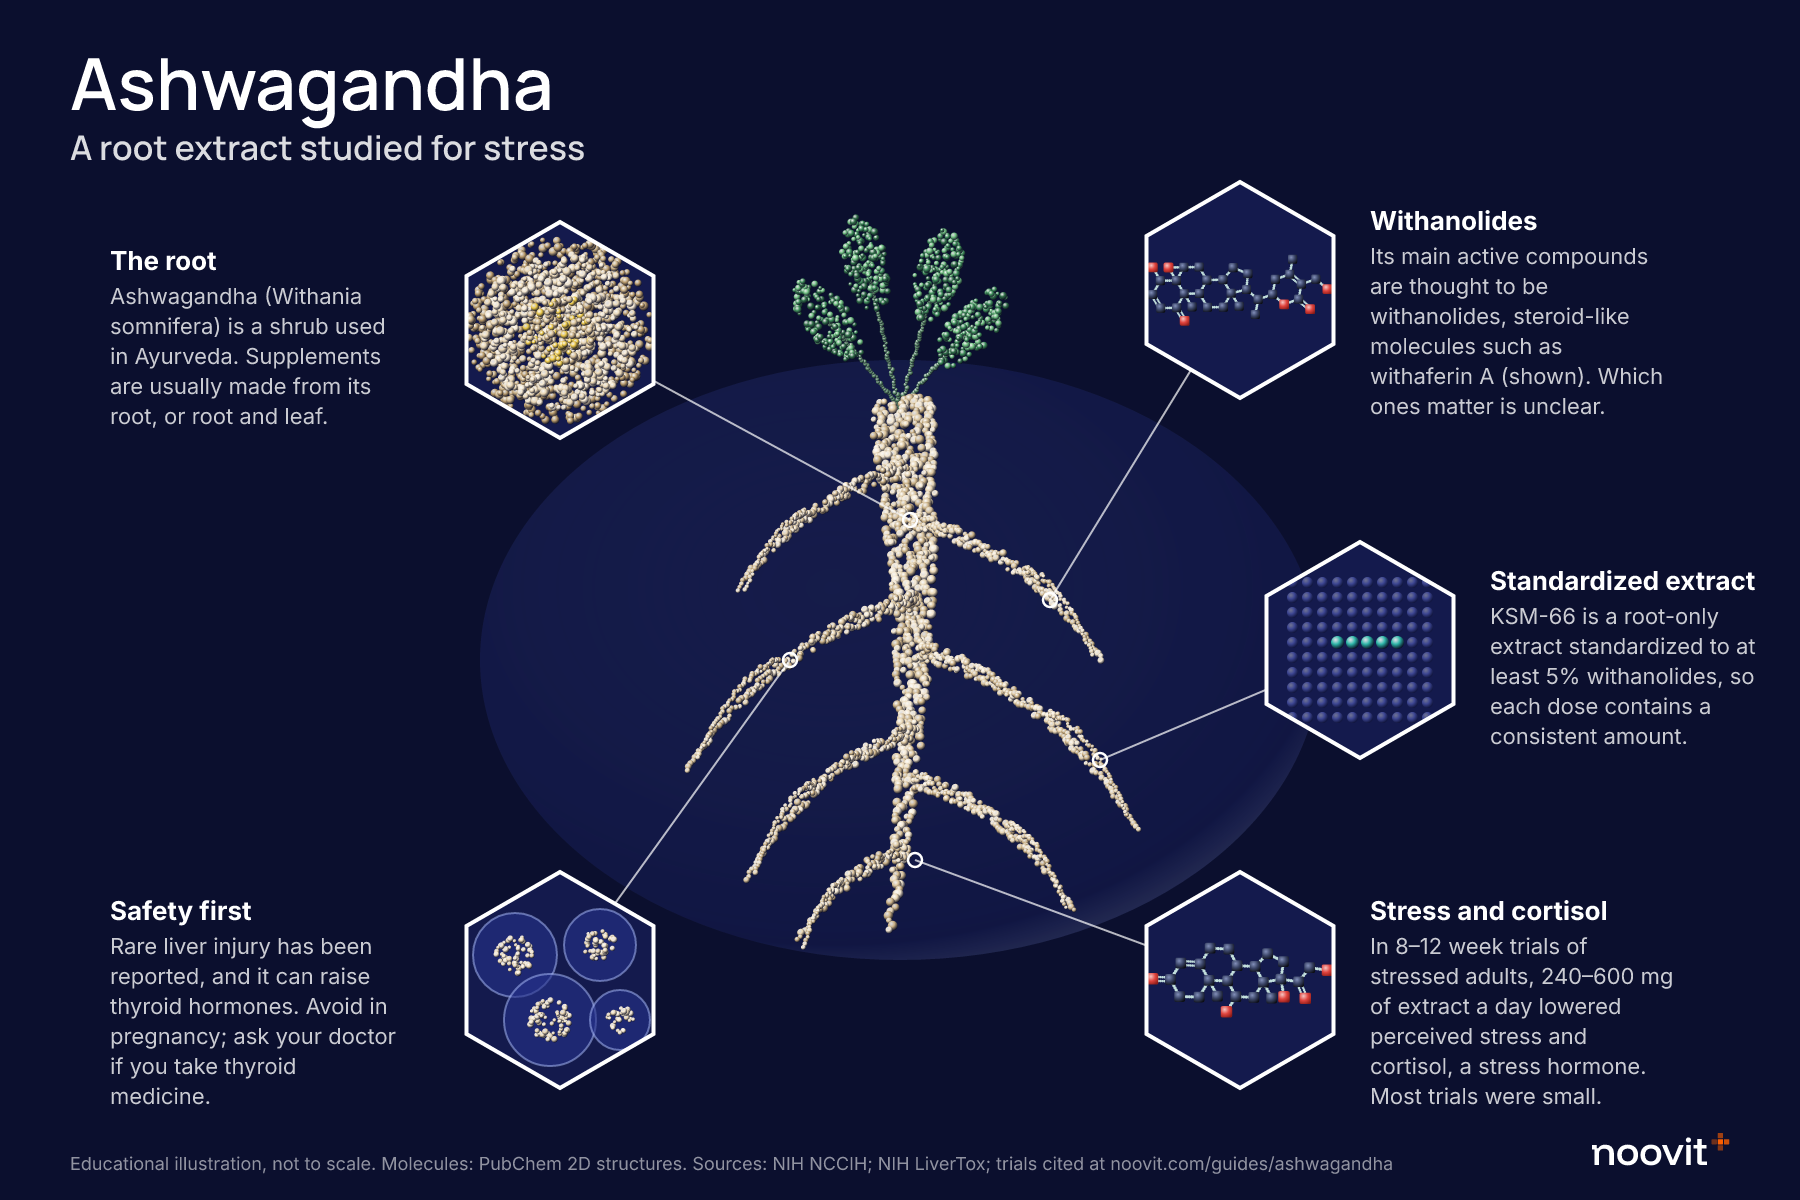
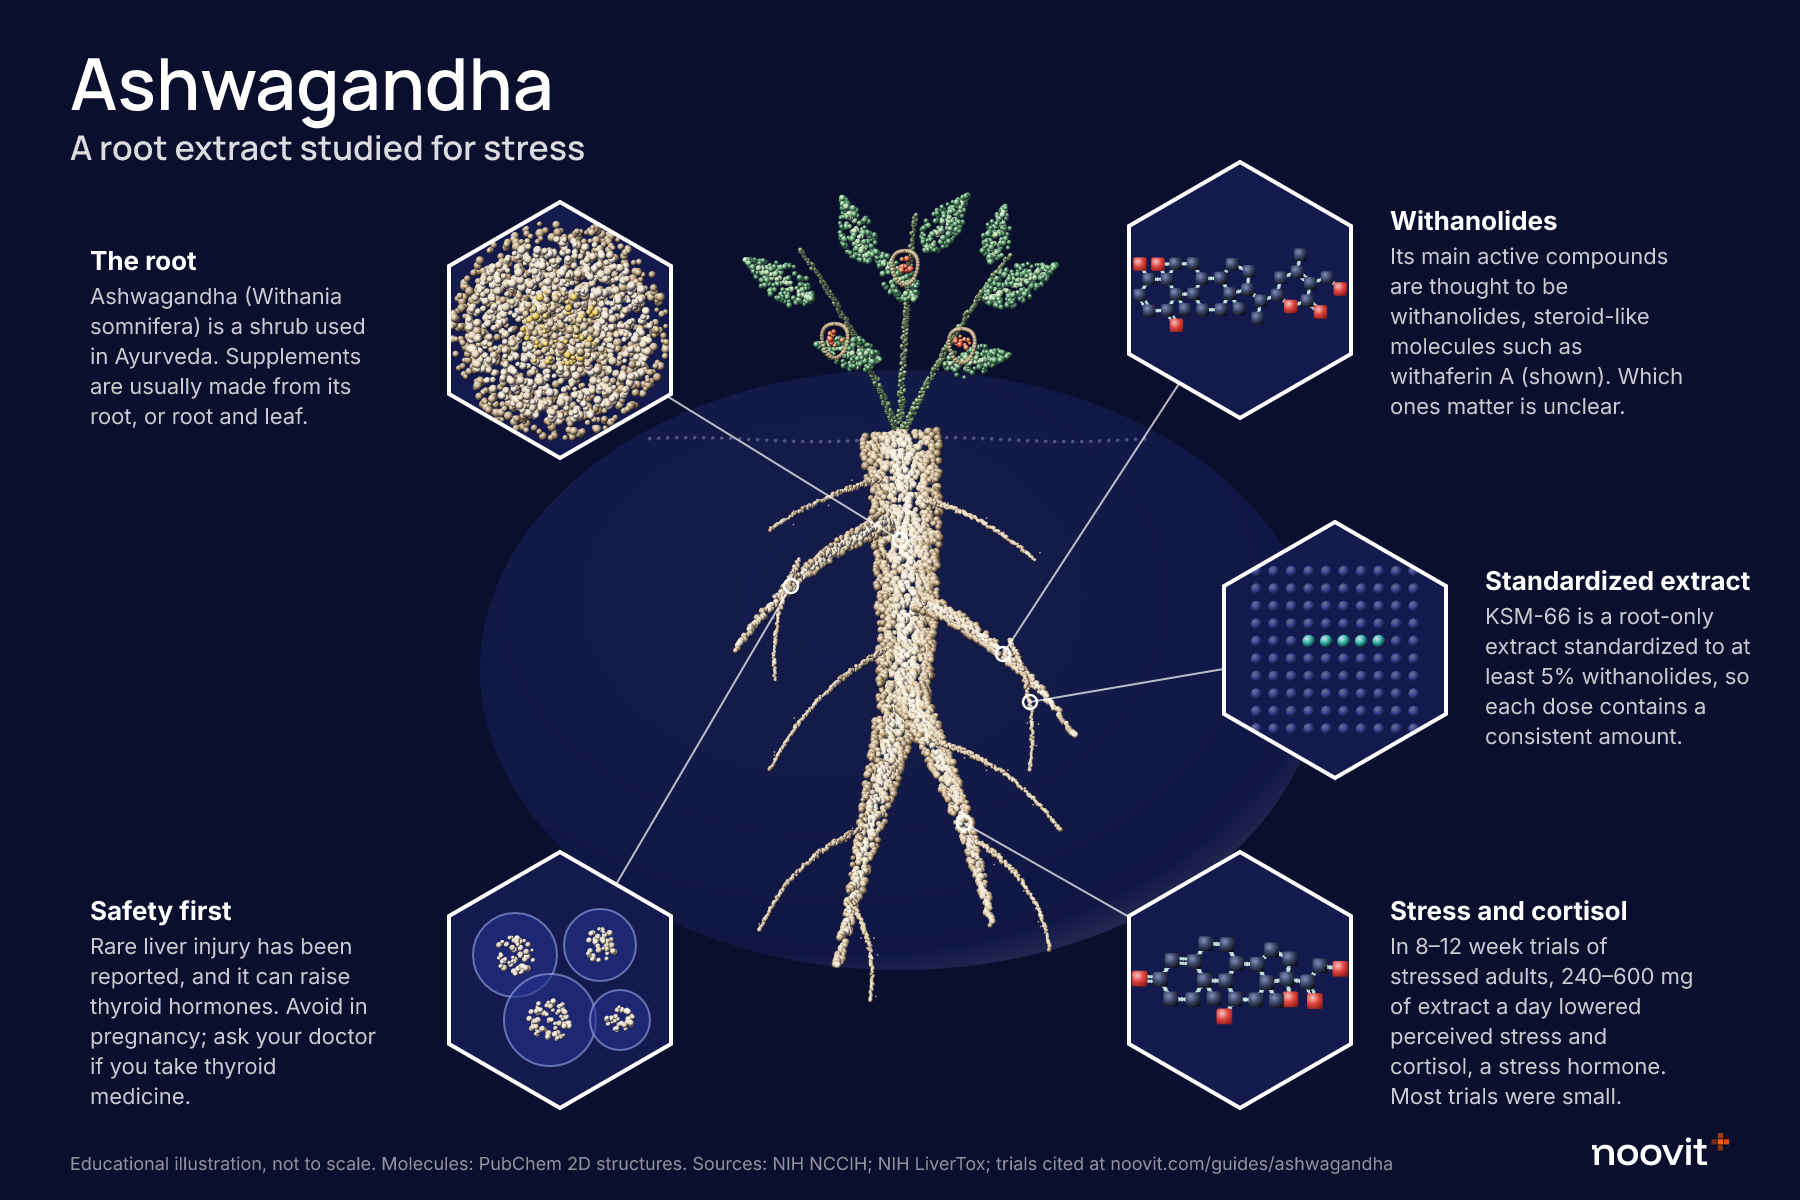
Ashwagandha infographic: better root, bigger molecules
- Root redrawn: shaded fleshy taproot that forks, fine rootlets, ground line,
  oval leaves and the orange berries in papery husks.
- Larger hexagons for this topic (per-topic hexR) so withaferin A and
  cortisol are bigger without cropping; ballStick gains a weight option
  (bolder atoms and bonds) and a centred zoom.

Claude-Session: https://claude.ai/code/session_01AgHwmMXyw3TzvCrzNnVa8R

diff --git a/scripts/infographic.ts b/scripts/infographic.ts
@@ -68,15 +68,14 @@ function cell() {
 
 // ---- hexagon close-ups ----
 const hexPath = (cx: number, cy: number, r: number) => Array.from({ length: 6 }, (_, i) => { const a = Math.PI / 6 + (i * Math.PI) / 3; return `${n(cx + r * Math.cos(a))},${n(cy + r * Math.sin(a))}`; }).join(' ');
-function hex(id: string, cx: number, cy: number, inner: string) {
-  const r = 108;
+function hex(id: string, cx: number, cy: number, inner: string, r = 108) {
   defs.push(`<clipPath id="${id}"><polygon points="${hexPath(cx, cy, r)}"/></clipPath>`);
   return `<g clip-path="url(#${id})"><polygon points="${hexPath(cx, cy, r)}" fill="#141A4D"/>${inner}</g><polygon points="${hexPath(cx, cy, r)}" fill="none" stroke="#fff" stroke-width="4"/>`;
 }
 
 // ---- hexagon contents (all drawn in the hexagon's own box, ~210 px across) ----
-const mol = (key: string, cx: number, cy: number, w: number, h: number, opts: { rotate?: number; zoom?: number } = {}) =>
-  ballStick(key, cx, cy, w, h, '#7FD6CC', { carbon: '#3A4466', rotate: opts.rotate ?? 0, zoom: opts.zoom });
+const mol = (key: string, cx: number, cy: number, w: number, h: number, opts: { rotate?: number; zoom?: number; zoomAt?: 'oxygen' | 'centre'; weight?: number } = {}) =>
+  ballStick(key, cx, cy, w, h, '#7FD6CC', { carbon: '#3A4466', rotate: opts.rotate ?? 0, zoom: opts.zoom, zoomAt: opts.zoomAt, weight: opts.weight });
 const atpSynthase = (cx: number, cy: number) => {
   const out: string[] = [blob(cx, cy + 55, 70, 10, [LAV, COBALT], 3.5, 1.2)];
   for (let k = 0; k < 9; k++) { const a = (k / 9) * Math.PI * 2; out.push(blob(cx + Math.cos(a) * 30, cy - 20 + Math.sin(a) * 30, 13, 13, [GOLD, '#F2D97A', '#C9A227'], 3.2)); }
@@ -123,50 +122,84 @@ function muscle() {
   return out.join('');
 }
 
-// Ashwagandha: a schematic taproot with side roots (pale, as the dried root is) and a few leaves at the crown.
-const ROOT = ['#E9D6B4', '#D9C29A', '#F3E6CF', '#C8AE82'], LEAF = ['#3F8F5A', '#6DBE7E', '#2E6B45'];
-function strand(p0: number[], p1: number[], p2: number[], w0: number, w1: number, cols: string[], r = 3.4) {
+// Ashwagandha: a fleshy taproot that forks, with fine rootlets, shaded light-to-dark across its width so it reads as
+// round; above the ground line, oval leaves and the plant's orange-red berries in papery husks. Schematic, not to scale.
+const ROOT = ['#F6EBD6', '#EBD9B8', '#DCC49B', '#C7A97C', '#A88A5F'], LEAF = ['#8FCB8A', '#5FA66A', '#3F8552', '#2B6040'];
+function strand(p0: number[], p1: number[], p2: number[], w0: number, w1: number, cols: string[], r = 3.4, rings = 0) {
   const out: string[] = [];
   const len = Math.hypot(p1[0] - p0[0], p1[1] - p0[1]) + Math.hypot(p2[0] - p1[0], p2[1] - p1[1]);
-  const steps = Math.max(8, Math.round(len / (r * 1.1)));
+  const steps = Math.max(8, Math.round(len / (r * 0.9)));
   for (let s = 0; s <= steps; s++) {
     const t = s / steps, u = 1 - t;
     const x = u * u * p0[0] + 2 * u * t * p1[0] + t * t * p2[0], y = u * u * p0[1] + 2 * u * t * p1[1] + t * t * p2[1];
     const dx = 2 * u * (p1[0] - p0[0]) + 2 * t * (p2[0] - p1[0]), dy = 2 * u * (p1[1] - p0[1]) + 2 * t * (p2[1] - p1[1]);
-    const d = Math.hypot(dx, dy) || 1, nx = -dy / d, ny = dx / d, w = w0 + (w1 - w0) * t;
-    const k = Math.max(1, Math.round(w / (r * 1.5)));
-    for (let j = 0; j < k; j++) { const o = (rnd() - 0.5) * w; out.push(dot(x + nx * o, y + ny * o, r * (0.75 + 0.5 * rnd()), cols[Math.floor(rnd() * cols.length)])); }
+    const d = Math.hypot(dx, dy) || 1, nx = -dy / d, ny = dx / d, w = w0 + (w1 - w0) * Math.pow(t, 0.8);
+    const ring = rings > 0 && Math.round(t * len) % rings < r; // faint transverse wrinkles
+    const k = Math.max(1, Math.round(w / (r * 1.05)));
+    for (let j = 0; j < k; j++) {
+      const o = (rnd() - 0.5) * w, e = Math.min(1, Math.abs(o) / (w / 2 || 1));
+      const ci = Math.min(cols.length - 1, Math.floor(Math.pow(e, 1.4) * (cols.length - 1) + rnd() * 0.9 + (ring ? 1 : 0)));
+      out.push(dot(x + nx * o, y + ny * o, r * (0.75 + 0.5 * rnd()), cols[ci]));
+    }
   }
   return out.join('');
 }
-function root() {
-  const out: string[] = [`<ellipse cx="${CX}" cy="${CY + 20}" rx="420" ry="300" fill="url(#mem)" fill-opacity="0.55"/>`];
-  for (const [a, l] of [[-2.25, 115], [-1.8, 150], [-1.3, 140], [-0.85, 110]]) {
-    const ex = CX + Math.cos(a) * l, ey = 410 + Math.sin(a) * l;
-    out.push(strand([CX, 410], [CX + Math.cos(a) * l * 0.5, 410 + Math.sin(a) * l * 0.5 - 6], [ex, ey], 3, 2, ['#5E8F6A'], 2.2));
-    out.push(blob(ex, ey, 48, 22, LEAF, 3, 1.4, a));
+// An oval leaf, widest near the base, with a pale midrib.
+function leaf(x: number, y: number, ang: number, len: number, wid: number) {
+  const out: string[] = [], r = 2.8, ca = Math.cos(ang), sa = Math.sin(ang);
+  const count = Math.round(((len * wid) / (r * r)) * 0.55);
+  for (let i = 0; i < count; i++) {
+    const t = rnd(), hw = (wid / 2) * Math.sin(Math.PI * Math.pow(t, 0.7)), o = (rnd() * 2 - 1) * hw, e = Math.abs(o) / (hw || 1);
+    const c = e < 0.12 ? '#B8E0A8' : LEAF[Math.min(LEAF.length - 1, Math.floor(e * 2.2 + rnd() * 1.2))];
+    out.push(dot(x + ca * t * len - sa * o, y + sa * t * len + ca * o, r * (0.8 + 0.4 * rnd()), c));
   }
-  out.push(strand([CX, 400], [CX + 30, 650], [CX - 10, 930], 64, 6, ROOT, 4)); // taproot
-  const sides: [number, number, number, number][] = [[470, -1, 170, 120], [520, 1, 190, 140], [600, -1, 230, 170], [650, 1, 220, 180], [730, -1, 170, 150], [780, 1, 160, 130], [850, -1, 110, 90]];
-  for (const [y, s, dx, dy] of sides) {
-    const x0 = CX + 30 * Math.sin(((y - 400) / 530) * Math.PI) * 0.6;
-    out.push(strand([x0, y], [x0 + s * dx * 0.6, y + dy * 0.2], [x0 + s * dx, y + dy], 18, 3, ROOT, 3.2));
-    out.push(strand([x0 + s * dx * 0.6, y + dy * 0.35], [x0 + s * dx * 0.8, y + dy * 0.45], [x0 + s * dx * 0.95, y + dy * 0.75 + 30], 6, 2, ROOT, 2.4));
+  return out.join('');
+}
+// The berry: orange-red, inside a papery lantern-shaped husk.
+function lantern(x: number, y: number) {
+  const out: string[] = [blob(x, y + 4, 8, 8, ['#E0522D', '#F07A3E', '#C33A1E'], 2.6, 1.5)];
+  for (let k = 0; k < 34; k++) { const a = (k / 34) * Math.PI * 2; out.push(dot(x + 13 * Math.sin(a), y + 2 - 17 * Math.cos(a) + 4 * Math.cos(a) ** 2, 2.3, '#D9B77A', 0.85)); }
+  return out.join('');
+}
+const GROUND = 440;
+function root() {
+  const out: string[] = [`<ellipse cx="${CX}" cy="${CY + 30}" rx="420" ry="300" fill="url(#mem)" fill-opacity="0.55"/>`];
+  for (let x = 650; x <= 1150; x += 9) out.push(dot(x, GROUND + Math.sin(x / 40) * 2, 2.2, '#B9A9F2', 0.35)); // ground line
+  // stems, leaves and berries
+  const stems: [number[], number[]][] = [[[860, 330], [800, 250]], [[905, 300], [915, 215]], [[950, 330], [1010, 255]]];
+  for (const [mid, tip] of stems) out.push(strand([900, GROUND], mid, tip, 6, 3, ['#7C9A62', '#5E7D4A'], 2.2));
+  const leaves: [number, number, number, number][] = [[812, 300, -2.6, 78], [868, 262, -1.95, 70], [915, 300, -2.25, 62], [925, 250, -0.9, 70], [985, 300, -0.45, 80], [880, 360, -2.9, 66], [945, 365, -0.15, 66], [990, 262, -1.3, 58]];
+  for (const [x, y, a, l] of leaves) out.push(leaf(x, y, a, l, l * 0.5));
+  for (const [x, y] of [[835, 335], [962, 340], [905, 262]]) out.push(lantern(x, y));
+  // roots: a thick taproot that forks low down; two medium side roots; fine rootlets with a few root hairs
+  out.push(strand([900, GROUND - 6], [912, 580], [904, 700], 80, 50, ROOT, 3.8, 26));
+  out.push(strand([904, 690], [872, 820], [838, 965], 50, 6, ROOT, 3.6, 26));
+  out.push(strand([906, 690], [962, 790], [992, 925], 38, 5, ROOT, 3.4, 26));
+  out.push(strand([890, 520], [800, 560], [735, 650], 22, 3, ROOT, 3));
+  out.push(strand([918, 600], [1010, 640], [1075, 735], 20, 3, ROOT, 3));
+  const fine: [number[], number[], number[]][] = [
+    [[880, 480], [820, 495], [770, 530]], [[925, 500], [985, 515], [1035, 560]], [[800, 560], [770, 610], [775, 680]],
+    [[1010, 640], [1040, 700], [1030, 770]], [[885, 650], [810, 690], [770, 770]], [[930, 740], [1010, 760], [1060, 830]],
+    [[860, 830], [790, 860], [760, 930]], [[975, 840], [1040, 880], [1050, 950]], [[850, 900], [880, 950], [870, 1000]],
+  ];
+  for (const [a, b, c] of fine) {
+    out.push(strand(a, b, c, 5, 1.5, ROOT.slice(1), 2.1));
+    for (let h = 0; h < 6; h++) { const t = rnd(); out.push(dot((1 - t) ** 2 * a[0] + 2 * (1 - t) * t * b[0] + t * t * c[0] + (rnd() - 0.5) * 14, (1 - t) ** 2 * a[1] + 2 * (1 - t) * t * b[1] + t * t * c[1] + (rnd() - 0.5) * 14, 1.1, '#EBD9B8', 0.7)); }
   }
   return out.join('');
 }
 // Cross-section of the root: bark, cortex and woody core (schematic).
-const rootSection = (cx: number, cy: number) =>
-  blob(cx, cy, 92, 92, ['#B89A6A', '#C8AE82'], 3.6, 1.2) + blob(cx, cy, 78, 78, ['#F3E6CF', '#E9D6B4'], 3.6, 1.3) + blob(cx, cy, 34, 34, ['#D9C29A', '#C8AE82', '#E8C547'], 3.2, 1.4);
+const rootSection = (cx: number, cy: number, k = 1) =>
+  blob(cx, cy, 92 * k, 92 * k, ['#B89A6A', '#C8AE82'], 3.6, 1.2) + blob(cx, cy, 78 * k, 78 * k, ['#F3E6CF', '#E9D6B4'], 3.6, 1.3) + blob(cx, cy, 34 * k, 34 * k, ['#D9C29A', '#C8AE82', '#E8C547'], 3.2, 1.4);
 // 100 beads, `k` lit: "at least 5% withanolides".
-const percentGrid = (cx: number, cy: number, k: number) => {
+const percentGrid = (cx: number, cy: number, k: number, g = 15) => {
   const out: string[] = [];
-  for (let i = 0; i < 100; i++) { const gx = i % 10, gy = Math.floor(i / 10); const lit = gy === 4 && gx >= 3 && gx < 3 + k; out.push(dot(cx - 67.5 + gx * 15, cy - 67.5 + gy * 15, lit ? 6.5 : 5.5, lit ? TEAL : '#6E7BE8', lit ? 1 : 0.45)); }
+  for (let i = 0; i < 100; i++) { const gx = i % 10, gy = Math.floor(i / 10); const lit = gy === 4 && gx >= 3 && gx < 3 + k; out.push(dot(cx - 4.5 * g + gx * g, cy - 4.5 * g + gy * g, lit ? 6.5 : 5.5, lit ? TEAL : '#6E7BE8', lit ? 1 : 0.45)); }
   return out.join('');
 };
 
 interface Hex { cx: number; cy: number; ax: number; ay: number; inner: string; title: string; text: string; side: 'l' | 'r' }
-interface Topic { slug: string; title: string; subtitle: string; centre: () => string; hexes: Hex[]; sources: string }
+interface Topic { slug: string; title: string; subtitle: string; centre: () => string; hexes: Hex[]; sources: string; hexR?: number }
 const POS = { tl: [560, 330], tr: [1240, 290], r: [1360, 650], br: [1240, 980], bl: [560, 980] } as const;
 const at = (k: keyof typeof POS) => ({ cx: POS[k][0], cy: POS[k][1] });
 
@@ -202,22 +235,22 @@ const TOPICS: Topic[] = [
     ],
   },
   {
-    slug: 'ashwagandha', title: 'Ashwagandha', subtitle: 'A root extract studied for stress', centre: root, sources: 'NIH NCCIH; NIH LiverTox; trials cited at noovit.com/guides/ashwagandha',
+    slug: 'ashwagandha', title: 'Ashwagandha', subtitle: 'A root extract studied for stress', centre: root, sources: 'NIH NCCIH; NIH LiverTox; trials cited at noovit.com/guides/ashwagandha', hexR: 128,
     hexes: [
-      { ...at('tl'), ax: CX + 10, ay: 520, side: 'l', inner: rootSection(560, 330), title: 'The root', text: 'Ashwagandha (Withania somnifera) is a shrub used in Ayurveda. Supplements are usually made from its root, or root and leaf.' },
-      { ...at('tr'), ax: CX + 150, ay: 600, side: 'r', inner: mol('withaferin-a', 1240, 290, 190, 170, { rotate: 0 }), title: 'Withanolides', text: 'Its main active compounds are thought to be withanolides, steroid-like molecules such as withaferin A (shown). Which ones matter is unclear.' },
-      { ...at('r'), ax: CX + 200, ay: 760, side: 'r', inner: percentGrid(1360, 650, 5), title: 'Standardized extract', text: 'KSM-66 is a root-only extract standardized to at least 5% withanolides, so each dose contains a consistent amount.' },
-      { ...at('br'), ax: CX + 15, ay: 860, side: 'r', inner: mol('cortisol', 1240, 980, 190, 160, { rotate: 0 }), title: 'Stress and cortisol', text: 'In 8–12 week trials of stressed adults, 240–600 mg of extract a day lowered perceived stress and cortisol, a stress hormone. Most trials were small.' },
-      { ...at('bl'), ax: 790, ay: 660, side: 'l', inner: miniCells(560, 980), title: 'Safety first', text: 'Rare liver injury has been reported, and it can raise thyroid hormones. Avoid in pregnancy; ask your doctor if you take thyroid medicine.' },
+      { ...at('tl'), ax: 900, ay: 540, side: 'l', inner: rootSection(560, 330, 1.18), title: 'The root', text: 'Ashwagandha (Withania somnifera) is a shrub used in Ayurveda. Supplements are usually made from its root, or root and leaf.' },
+      { ...at('tr'), ax: 1003, ay: 654, side: 'r', inner: mol('withaferin-a', 1240, 290, 218, 200, { rotate: 0, weight: 1.2 }), title: 'Withanolides', text: 'Its main active compounds are thought to be withanolides, steroid-like molecules such as withaferin A (shown). Which ones matter is unclear.' },
+      { cx: 1335, cy: 650, ax: 1030, ay: 702, side: 'r', inner: percentGrid(1335, 650, 5, 17.5), title: 'Standardized extract', text: 'KSM-66 is a root-only extract standardized to at least 5% withanolides, so each dose contains a consistent amount.' },
+      { ...at('br'), ax: 964, ay: 823, side: 'r', inner: mol('cortisol', 1240, 980, 218, 200, { rotate: 0, weight: 1.2 }), title: 'Stress and cortisol', text: 'In 8–12 week trials of stressed adults, 240–600 mg of extract a day lowered perceived stress and cortisol, a stress hormone. Most trials were small.' },
+      { ...at('bl'), ax: 791, ay: 586, side: 'l', inner: miniCells(560, 980), title: 'Safety first', text: 'Rare liver injury has been reported, and it can raise thyroid hormones. Avoid in pregnancy; ask your doctor if you take thyroid medicine.' },
     ],
   },
 ];
 
-function caption(h: Hex) {
+function caption(h: Hex, r = 108) {
   const all = wrap(h.text, 300, 22, 0.5);
   if (all.length > 6) console.warn(`Caption too long (${all.length} lines): ${h.title}`);
   const lines = all.slice(0, 6);
-  const x = h.side === 'l' ? h.cx - 130 - 320 : h.cx + 130;
+  const x = h.side === 'l' ? h.cx - r - 22 - 320 : h.cx + r + 22;
   const y = h.cy - 60;
   return `<text x="${x}" y="${y}" font-size="26" font-weight="700" fill="#fff" font-family="Inter">${esc(h.title)}</text>` +
     lines.map((l, i) => `<text x="${x}" y="${y + 34 + i * 30}" font-size="22" fill="#fff" fill-opacity="0.78" font-family="Inter">${esc(l)}</text>`).join('');
@@ -228,7 +261,7 @@ mkdirSync('design/social', { recursive: true });
 for (const t of TOPICS) {
   seed = 7; // colour gradients are shared across topics (their close-ups are built up front)
   const centre = t.centre();
-  const hexes = t.hexes.map((h, i) => `<line x1="${h.cx}" y1="${h.cy}" x2="${h.ax}" y2="${h.ay}" stroke="#fff" stroke-opacity="0.7" stroke-width="2"/><circle cx="${h.ax}" cy="${h.ay}" r="7" fill="none" stroke="#fff" stroke-width="2.5"/>` + hex(`hx-${t.slug}-${i}`, h.cx, h.cy, h.inner) + caption(h)).join('');
+  const hexes = t.hexes.map((h, i) => `<line x1="${h.cx}" y1="${h.cy}" x2="${h.ax}" y2="${h.ay}" stroke="#fff" stroke-opacity="0.7" stroke-width="2"/><circle cx="${h.ax}" cy="${h.ay}" r="7" fill="none" stroke="#fff" stroke-width="2.5"/>` + hex(`hx-${t.slug}-${i}`, h.cx, h.cy, h.inner, t.hexR) + caption(h, t.hexR)).join('');
   const body = `<rect width="${W}" height="${H}" fill="${NIGHT}"/>${centre}${hexes}
     <text x="70" y="110" font-size="72" font-weight="300" fill="#fff" font-family="Manrope">${esc(t.title)}</text>
     <text x="70" y="160" font-size="34" font-weight="300" fill="#fff" fill-opacity="0.85" font-family="Manrope">${esc(t.subtitle)}</text>

diff --git a/lib/labels/molecule.ts b/lib/labels/molecule.ts
@@ -255,7 +255,7 @@ export const ballStickArt = (p: Product, cx: number, cy: number, width: number, 
 // Element colours follow the standard CPK convention (O red, N blue, P orange, H white); carbon takes the product
 // colour. Atoms are rounded square tiles, the shape of the tiles in the noovit cross: accurate structure, our style.
 // `zoom`: a close-up (crop) centred on the oxygens' centroid; the rest of the molecule runs off the edge (clip it).
-export interface BallStickOpts { spectrum?: boolean; rotate?: number; oxygen?: string; tiles?: boolean; carbon?: string; zoom?: number }
+export interface BallStickOpts { spectrum?: boolean; rotate?: number; oxygen?: string; tiles?: boolean; carbon?: string; zoom?: number; zoomAt?: 'oxygen' | 'centre'; weight?: number }
 export function ballStick(key: string, cx: number, cy: number, width: number, height: number, color: string, opts: BallStickOpts = {}) {
   const sk = SK[key];
   if (!sk) return '';
@@ -267,7 +267,8 @@ export function ballStick(key: string, cx: number, cy: number, width: number, he
   const sx = Math.max(...xs) - Math.min(...xs) || 1, sy = Math.max(...ys) - Math.min(...ys) || 1;
   let s = Math.min(width / sx, height / sy) * 0.92;
   let mx = (Math.max(...xs) + Math.min(...xs)) / 2, my = (Math.max(...ys) + Math.min(...ys)) / 2;
-  if (opts.zoom) {
+  if (opts.zoom && opts.zoomAt === 'centre') s *= opts.zoom; // enlarge about the middle of the molecule
+  else if (opts.zoom) {
     const oi = sk.atoms.map((a, i) => (a[0] === 'O' ? i : -1)).filter((i) => i >= 0);
     mx = oi.reduce((t, i) => t + rotd[i][0], 0) / oi.length;
     my = oi.reduce((t, i) => t + rotd[i][1], 0) / oi.length;
@@ -297,7 +298,7 @@ export function ballStick(key: string, cx: number, cy: number, width: number, he
     const [x1, y1] = P[a], [x2, y2] = P[b];
     const L = Math.hypot(x2 - x1, y2 - y1) || 1, nx = -(y2 - y1) / L, ny = (x2 - x1) / L;
     const offs = order === 2 ? [-1, 1] : order === 3 ? [-1, 0, 1] : [0];
-    const r = bondLen * (order >= 2 ? 0.07 : 0.09);
+    const r = bondLen * (order >= 2 ? 0.07 : 0.09) * (opts.weight ?? 1); // weight: bolder drawing for small sizes
     for (const o of offs) {
       const k = steps(L, r * 1.6);
       for (let i = 0; i <= k; i++) {
@@ -307,7 +308,7 @@ export function ballStick(key: string, cx: number, cy: number, width: number, he
     }
   }
   sk.atoms.forEach(([e], i) => {
-    const r = bondLen * (atomR[e] ?? atomR.C);
+    const r = bondLen * (atomR[e] ?? atomR.C) * (opts.weight ?? 1);
     const [x, y] = P[i];
     out.push(tiles
       ? `<rect x="${n(x - r)}" y="${n(y - r)}" width="${n(2 * r)}" height="${n(2 * r)}" rx="${n(r * 0.3)}" fill="${g(col(e))}"/>`

diff --git a/docs/PROGRESS.md b/docs/PROGRESS.md
@@ -178,3 +178,4 @@ Status: **Have** · **Phase N** = planned (Phases 1–2 done Oct 2026) · **Tool
 - [x] 3 Nov (12): turmeric art redrawn as the recognisable curcumin ball-and-stick (labels, website, social).
 - [x] 4 Nov (13): ball-and-stick atoms as rounded tiles (cross language) with CPK oxygen/nitrogen/phosphorus colours; turmeric V2 label re-centred; CoQ10 V2 label shows a ring close-up; magnesium and creatine infographics; ATP / phosphocreatine / creatine skeletons from PubChem 2D; orange-spur logo mockup.
 - [x] 7 Nov (14): ashwagandha infographic (bead-built root, withaferin A and cortisol from PubChem 2D, 5% standardization grid, safety panel); caption overflow warning; spur colour comparison (orange / green / teal).
+- [x] 7 Nov (15): ashwagandha infographic redrawn: shaded forking taproot with rootlets, ground line, oval leaves and orange berries in papery husks; larger hexagons (per-topic `hexR`) and bolder molecules (`ballStick` `weight`, `zoomAt: 'centre'`).
